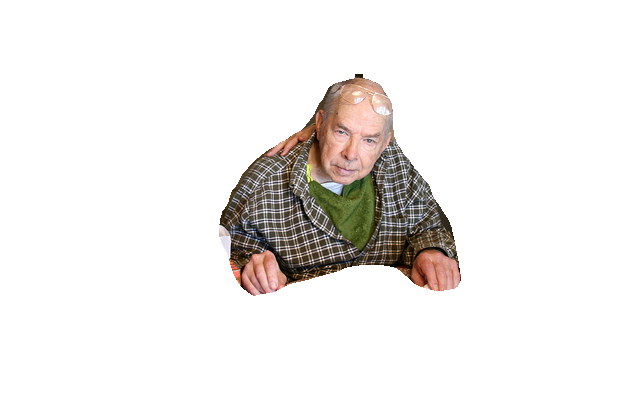
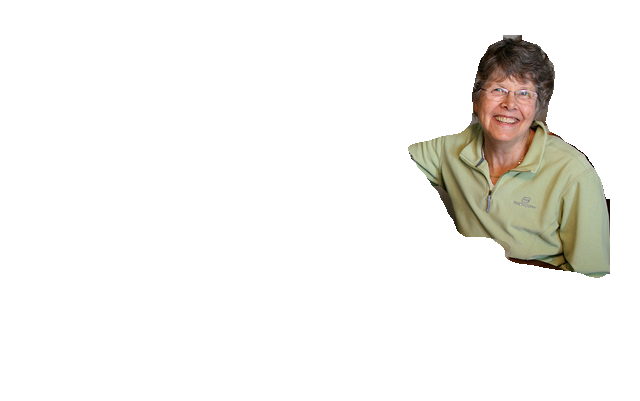
modified:   dbexpos_image.png 	modified:   demo.py 	modified:   mask.png 	modified:   plot.png

Changed region(s): [[0.3438, 0.0898, 0.9688, 0.7481]]

diff --git a/demo.py b/demo.py
@@ -76,7 +76,7 @@ print(id_person)
 # Visualize results
 r = results[0]
 #idx = r['class_ids'].tolist().index(1)
-idx = 1
+idx = 2
 print(idx)
 #print(r['rois'].shape)
 #print(r['masks'].shape)
